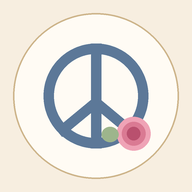
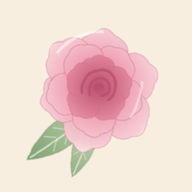
Tarvike-rivityyppi resepteihin ja uusi ruusukuvake
Claude-Session: https://claude.ai/code/session_01HmwA5S6W5nbvQAGnwA3i5H

diff --git a/index.html b/index.html
@@ -254,6 +254,11 @@ label.flabel .muted{font-size:.8rem}
 .kpill.k-head{background:var(--blue-soft);color:var(--blue)}
 .kpill.k-step{background:var(--sage-soft);color:var(--sage)}
 .kpill.k-skip{background:#EEE6DA;color:var(--ink-soft)}
+.kpill.k-tool{background:var(--butter);color:var(--butter-ink)}
+.tools{list-style:none;margin:0;padding:0;display:flex;flex-direction:column}
+.tools li{display:flex;gap:10px;align-items:baseline;padding:9px 4px;border-bottom:1px solid #EFE3CF}
+.tools li:last-child{border-bottom:0}
+.tools li::before{content:"";width:7px;height:7px;border-radius:50%;background:var(--gold);flex:0 0 auto;transform:translateY(-2px)}
 .ptag{margin-left:6px;font-size:.66rem;font-weight:800;padding:1px 6px;border-radius:99px;background:var(--rose-soft);color:var(--rose-ink);white-space:nowrap;vertical-align:2px}
 .ptag.has{background:transparent;border:1px dashed #E3B7C4}
 .pick{display:flex;flex-wrap:wrap;gap:6px;margin-top:6px}
@@ -1340,7 +1345,9 @@ if (typeof module !== 'undefined') module.exports = globalThis.VegData;
   }
 
   /* ---------- reseptin jäsentäminen ---------- */
-  const ING_HEAD = /^(ainekset|ainesosat|aineosat|raaka-aineet|tarvitset|tarvikkeet|ingredients|ingredienser|zutaten|taikina|taytte|kuorrute|pohja|kastike)\b/i;
+  const TOOL_HEAD = /^(tarvikkeet|välineet|valineet|tarvitset myös|tarvitset lisäksi|työvälineet|tyovalineet|equipment|tools|you('ll| will) need)\b/i;
+  const TOOL_WORD = /(vuoka|vuoan|kulho|kattila|(^| )pannu( |$)|paistinpannu|uunipelti|leivinpelti|(^| )pelti|leivinpaperi|kakkuvuoka|irtopohjavuoka|muffinssivuoka|muffinssivuoat|muffinssipaperi|sähkövatkain|sahkovatkain|vatkain|sauvasekoitin|tehosekoitin|monitoimikone|yleiskone|kaulin|siivilä|siivila|raastin|nuolija|(^| )lasta( |$)|kauha|mittakannu|mittasarja|tuorekelmu|kelmu|folio|lämpömittari|lampomittari|paistolämpömittari|pursotinpussi|pursotin|tylli|jäätelökone|vohvelirauta|blender|food processor|stand mixer|hand mixer|mixer|baking sheet|baking pan|baking dish|parchment|whisk|mixing bowl|skillet|saucepan|dutch oven|springform|loaf pan|muffin tin|cake pan|rolling pin|sieve|spatula|piping bag|thermometer)/i;
+  const ING_HEAD = /^(ainekset|ainesosat|aineosat|raaka-aineet|tarvitset|ingredients|ingredienser|zutaten|taikina|taytte|kuorrute|pohja|kastike)\b/i;
   const STEP_HEAD = /^(ohje|ohjeet|valmistus|valmistusohje|tee nain|tee näin|instructions|directions|method|steps|preparation|gör så här|gor sa har|zubereitung)\b/i;
   const JUNK = /^(katso myös|lue myös|muita reseptejä|you may also like|related|more recipes|käynnistä ajastin|kaynnista ajastin|ajastin|start timer|set timer|timer|katso video|video|mainos|advertisement|lisää ostoslistalle|lisää suosikkeihin|lisää kauppalistalle|arvostelut|kommentit|reseptin tekijä|kuva:|photo|kuvaaja|lähde|source|avainsanat|tags|ruokavalio|vaikeustaso|hinta|annoshinta|\d+([.,]\d+)?\s*(€|e\/annos)|\d+\s*(min|minuuttia|h|tuntia|tunti)\.?$|kopioi$|lataa |lisää ainekset|lisaa ainekset|määrä\s+ainesosa|maara\s+ainesosa|.*-sovellu|tulosta|jaa resepti|arvostele|cook mode|prevent your screen|jump to recipe|print recipe|pin recipe|save recipe|rate this recipe|nutrition|calories|prep time|cook time|total time|course|cuisine|keyword|author|servings\s*:|yield\s*:|equipment|notes?$|video|watch|share|tulosta|tallenna|arvostele|valmistusaika|kokonaisaika|ravintosisalto|kategoria)/i;
   const NOT_FOOD = /^\s*(\d+([.,]\d+)?\s*)?(minutes?|mins?\.?|min|minuutti[a]?|minuuttia|hours?|hrs?|h|tunti[a]?|tuntia|people|persons?|servings?|serves|henkea|henkiloa|hengelle|annosta|annoksia|portions?|kcal|calories|kalori\w*|prep|cook|total)\s*\.?\s*$|^(prep|cook|total|valmistusaika|kokonaisaika|kypsennysaika|uunissa)\b/;
@@ -1395,6 +1402,7 @@ if (typeof module !== 'undefined') module.exports = globalThis.VegData;
     const push = (t, k) => out.push({ t, k, k0: k });
     lines.forEach(l => {
       if (ign.has(prepText(l).trim())) { push(l, 'skip'); return; }
+      if (TOOL_HEAD.test(l) && l.length < 40) { section = 'tools'; return; }
       if (JUNK.test(l) || PAGE_JUNK.test(l)) { const s2 = l.match(/(servings|serves|yield|annokset|annoksia|makes)\s*:?\s*(\d+)/i); if (s2 && servings == null) servings = parseInt(s2[2], 10); push(l, 'skip'); return; }
       const sv = l.match(/(\d+)\s*(annosta|annos|hengelle|henkilölle|henkiloa|henkeä|kpl|kappaletta|sämpylää|sampylaa|pullaa|palaa|muffinssia|keksiä|servings?|serves|portions?|pieces?)/i) || l.match(/(?:serves|makes|yields|riittää|tekee|annoksia|määrä)\s*:?\s*(\d+)/i);
       if (sv && l.length < 60 && servings == null) { servings = parseInt(sv[1], 10); if (sv[2]) servingsLabel = normLabel(sv[2]); if (!QTY_RE.test(l) || l.length < 25) return; }
@@ -1407,6 +1415,9 @@ if (typeof module !== 'undefined') module.exports = globalThis.VegData;
       if (!QTY_RE.test(l) && STEP_VERB.test(l)) { section = 'steps'; push(l.replace(/^\d+[.)]\s*/, ''), 'step'); return; }
       if (ING_HEAD.test(l) && l.length < 40) { section = 'ings'; if (/[:]\s*$/.test(l) && !/^(ainekset|ainesosat|ingredients)/i.test(l)) push(l.replace(/:\s*$/, ''), 'head'); return; }
       if (/^[^\d].{0,30}:$/.test(l) && section !== 'steps') { push(l.replace(/:$/, ''), 'head'); section = 'ings'; return; }
+      /* Tarvikkeet: oma osionsa tai lyhyt rivi, jossa on keittiövälineen nimi */
+      if (section === 'tools' && l.length < 90 && !STEP_VERB.test(l)) { push(l.replace(/^[-•*·]\s*/, ''), 'tool'); return; }
+      if (section !== 'steps' && l.length < 70 && TOOL_WORD.test(prepText(l)) && !/\d\s*(g|kg|dl|ml|l|rkl|tl|cups?|tbsp|tsp|oz)\b/i.test(l) && !/[.!?]$/.test(l)) { push(l.replace(/^[-•*·]\s*/, ''), 'tool'); return; }
       const isQty = QTY_RE.test(l) && l.length < 140;
       const bullet = /^[-•*·]\s/.test(l);
       if (section === 'steps') {
@@ -1435,13 +1446,14 @@ if (typeof module !== 'undefined') module.exports = globalThis.VegData;
   }
   /* Luokittelusta reseptiksi */
   function buildParsed(cls) {
-    const ings = [], steps = [];
+    const ings = [], steps = [], tools = [];
     cls.lines.forEach(x => {
-      if (x.k === 'ing') { const pi = parseIngredient(x.t); if (pi.name) ings.push(pi); }
+      if (x.k === 'tool') { if (x.t.trim()) tools.push(x.t.trim()); }
+      else if (x.k === 'ing') { const pi = parseIngredient(x.t); if (pi.name) ings.push(pi); }
       else if (x.k === 'head') ings.push({ head: x.t.replace(/:$/, '') });
       else if (x.k === 'step') steps.push(x.t);
     });
-    return { title: cls.title || 'Resepti', servings: cls.servings || 4, servingsLabel: cls.servingsLabel || 'annosta', ingredients: ings, steps };
+    return { title: cls.title || 'Resepti', servings: cls.servings || 4, servingsLabel: cls.servingsLabel || 'annosta', ingredients: ings, steps, tools };
   }
   function parseRecipe(text) { return buildParsed(classify(text, '', [])); }
   function normLabel(s) {
@@ -1647,7 +1659,7 @@ if (typeof module !== 'undefined') module.exports = globalThis.VegData;
       const hits = out.filter(i => !i.head && (avoid || []).some(a => prepText(i.name).includes(prepText(a))));
       if (hits.length) notes.push('Huom. vältettävä aine reseptissä: ' + hits.map(h => h.name).join(', ') + '.');
     }
-    return { title: en && p.title ? p.title : p.title, servings: p.servings, servingsLabel: p.servingsLabel, ingredients: out, steps, changes, notes: notes.join(' '), categories: guessCategories(text), mode: 'rules' };
+    return { title: en && p.title ? p.title : p.title, servings: p.servings, servingsLabel: p.servingsLabel, ingredients: out, steps, tools: p.tools || [], changes, notes: notes.join(' '), categories: guessCategories(text), mode: 'rules' };
   }
   function wordStem(key) {
     if (key === 'lohi' || key === 'kala' || key === 'tonnikala') return null;
@@ -2590,9 +2602,9 @@ Täytä kakku mansikoilla ja kermalla.`;
   }
 
   /* ---------- RIVIEDITORI: rivejä voi muokata, yhdistää, jakaa ja poistaa ---------- */
-  const LEKIND = { ing: 'Aines', head: 'Osio', step: 'Vaihe', skip: 'Ohita' };
+  const LEKIND = { ing: 'Aines', head: 'Osio', step: 'Vaihe', tool: 'Tarvike', skip: 'Ohita' };
   const LE = {
-    kinds: { rv: ['ing', 'head', 'step', 'skip'], ei: ['ing', 'head'], es: null },
+    kinds: { rv: ['ing', 'head', 'step', 'tool', 'skip'], ei: ['ing', 'head', 'tool'], es: null },
     rows(n) { return n === 'rv' ? (S.rin.review && S.rin.review.lines) : n === 'ei' ? (S.ed && S.ed.ings) : n === 'es' ? (S.ed && S.ed.steps) : null; },
     active: {}, caret: {}
   };
@@ -2629,7 +2641,8 @@ Täytä kakku mansikoilla ja kermalla.`;
   function leCount(n) {
     if (n !== 'rv') return;
     const el = $('#rvCount'), rows = LE.rows('rv'); if (!el || !rows) return;
-    el.textContent = `${rows.filter(x => x.k === 'ing').length} ainesta · ${rows.filter(x => x.k === 'step').length} vaihetta`;
+    const nt = rows.filter(x => x.k === 'tool').length;
+    el.textContent = `${rows.filter(x => x.k === 'ing').length} ainesta · ${rows.filter(x => x.k === 'step').length} vaihetta` + (nt ? ` · ${nt} tarviketta` : '');
   }
   function leMerge(a, b, raw) {
     const k = a.k === 'skip' && b.k !== 'skip' ? b.k : a.k;
@@ -2714,8 +2727,8 @@ Täytä kakku mansikoilla ja kermalla.`;
   });
 
   /* ---------- RESEPTIT ---------- */
-  const KLAB = { ing: 'Aines', head: 'Osio', step: 'Vaihe', skip: 'Ohita' };
-  const KNEXT = { ing: 'head', head: 'step', step: 'skip', skip: 'ing' };
+  const KLAB = { ing: 'Aines', head: 'Osio', step: 'Vaihe', tool: 'Tarvike', skip: 'Ohita' };
+  const KNEXT = { ing: 'head', head: 'step', step: 'tool', tool: 'skip', skip: 'ing' };
   function renderRecipe() {
     if (S.tab === 'book' && S.book.reading) { renderBook(); return; }
     const v = $('#v-recipe');
@@ -2744,7 +2757,7 @@ Täytä kakku mansikoilla ja kermalla.`;
     return `<div class="card" id="reviewCard">
       ${ch('Tarkista rivit', 'blue')}
       <div class="row" style="justify-content:space-between">
-        <span class="muted" style="font-size:.84rem;font-weight:700" id="rvCount">${n('ing')} ainesta · ${n('step')} vaihetta</span>
+        <span class="muted" style="font-size:.84rem;font-weight:700" id="rvCount">${n('ing')} ainesta · ${n('step')} vaihetta${n('tool') ? ` · ${n('tool')} tarviketta` : ''}</span>
         <label class="flabel" style="flex:0 0 6.5rem"><span class="label">Annoksia</span><input id="rvServ" type="number" inputmode="numeric" min="1" value="${rv.servings}"></label>
       </div>
       ${leHTML('rv')}
@@ -2871,6 +2884,7 @@ Täytä kakku mansikoilla ja kermalla.`;
         }).join('')}</ul>
         <button class="btn soft small nutbtn" data-act="nut">${icon('i-leaf')}Ravintoarvot annosta kohden</button>
       </div>
+      ${(r.tools || []).length ? `<div class="card">${ch('Tarvikkeet', 'blue')}<ul class="tools">${r.tools.map(t => `<li><span>${esc(t)}</span></li>`).join('')}</ul></div>` : ''}
       <div class="card">${ch('Valmistus', 'rose')}<ol class="steps">${(r.steps || []).map(s => `<li><span>${esc(s)}</span></li>`).join('')}</ol>
         ${S.servings !== r.servings ? `<p class="muted" style="font-size:.85rem">Määrät on skaalattu ${S.servings} ${esc(r.servingsLabel || 'annokselle')}. Jos vuoan koko muuttuu, tarkista paistoaika: matala vuoka kypsyy nopeammin, korkea hitaammin.</p>` : ''}</div>
       ${r.changes && r.changes.length ? `<div class="card" style="margin-top:14px">${ch('Mitä muutettiin', 'blue')}<ul class="changes">${r.changes.map(c => `<li><span class="ft"><s>${esc(c.from)}</s> → ${esc(c.to)}</span><span class="muted">${esc(c.why)}</span></li>`).join('')}</ul></div>` : ''}
@@ -2978,7 +2992,7 @@ Täytä kakku mansikoilla ja kermalla.`;
     const r = S.current;
     const cats = [...new Set([...D.DEFAULT_CATEGORIES, ...S.recipes.flatMap(x => x.categories || []), ...(r.categories || [])])];
     if (!S.ed || S.ed.id !== r.id) {
-      S.ed = { id: r.id, ings: r.ingredients.map(i => i.head ? { t: i.head, k: 'head' } : { t: lineOf(i), k: 'ing', o: i, ot: lineOf(i) }), steps: (r.steps || []).map(t => ({ t, k: 'step' })) };
+      S.ed = { id: r.id, ings: r.ingredients.map(i => i.head ? { t: i.head, k: 'head' } : { t: lineOf(i), k: 'ing', o: i, ot: lineOf(i) }).concat((r.tools || []).map(t => ({ t, k: 'tool' }))), steps: (r.steps || []).map(t => ({ t, k: 'step' })) };
       LE.active.ei = LE.active.es = null;
     }
     if (!S.ed.ings.length) S.ed.ings.push({ t: '', k: 'ing' });
@@ -3006,7 +3020,8 @@ Täytä kakku mansikoilla ja kermalla.`;
     r.servings = Math.max(1, parseInt($('#eServ').value, 10) || r.servings);
     r.servingsLabel = $('#eLabel').value.trim() || 'annosta';
     r.categories = $$('#eCats .chip').filter(b => b.getAttribute('aria-pressed') === 'true').map(b => b.dataset.v);
-    r.ingredients = S.ed.ings.map(x => Object.assign({}, x, { t: x.t.trim() })).filter(x => x.t).map(x => {
+    r.tools = S.ed.ings.filter(x => x.k === 'tool').map(x => x.t.trim()).filter(Boolean);
+    r.ingredients = S.ed.ings.filter(x => x.k !== 'tool').map(x => Object.assign({}, x, { t: x.t.trim() })).filter(x => x.t).map(x => {
       if (x.k === 'head' || (/:$/.test(x.t) && !/^\d/.test(x.t))) return { head: x.t.replace(/:$/, '') };
       if (x.o && x.t === x.ot) return x.o;
       const p = C.parseIngredient(x.t); p.changed = false;
@@ -3246,6 +3261,7 @@ Täytä kakku mansikoilla ja kermalla.`;
     if (K.tab === 'mise' || !n) {
       const list = r.ingredients.map((i, idx) => ({ i, idx }));
       body = `${oven ? `<p class="note">Esilämmitä uuni ${oven} °C.</p>` : ''}
+        ${(r.tools || []).length ? `<div class="cuse"><div class="label">Tarvikkeet</div>${r.tools.map(t => `<div><span>${esc(t)}</span></div>`).join('')}</div>` : ''}
         <ul class="shop cmise">${list.map(({ i, idx }) => i.head ? `<li><div class="label" style="padding:12px 0 2px">${esc(i.head)}</div></li>` : (() => { const a = amt(i); return `<li class="${chk.has(idx) ? 'done' : ''}"><label><input type="checkbox" data-cmise="${idx}" ${chk.has(idx) ? 'checked' : ''}><span class="q">${esc(a.q)}</span><span class="t">${esc(a.e.name)}</span></label></li>`; })()).join('')}</ul>
         ${n ? `<button class="btn primary" data-c="tab" data-v="steps">Aloita valmistus${icon('i-right')}</button>` : ''}`;
     } else {

diff --git a/sw.js b/sw.js
@@ -1,5 +1,5 @@
 /* Peace: offline-tuki. Sovellus päivittyy verkosta, kun yhteys on; muuten se toimii välimuistista. */
-const VERSION = 'peace-v1';
+const VERSION = 'peace-v2';
 const SHELL = ['./', 'index.html', 'manifest.webmanifest', 'icons/icon-192.png', 'icons/icon-512.png', 'icons/apple-touch-icon.png'];
 const RUNTIME = 'peace-runtime-v1';
 
